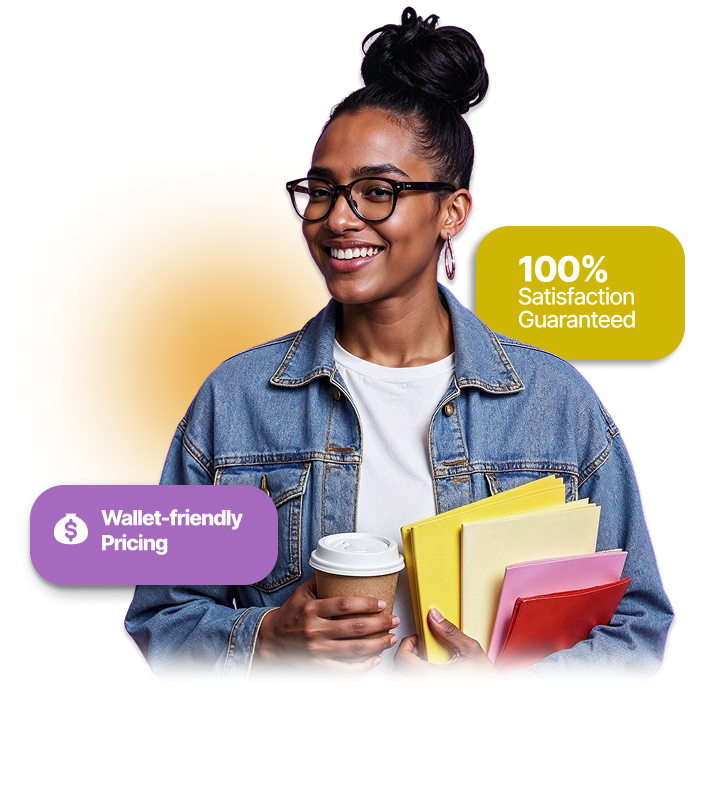
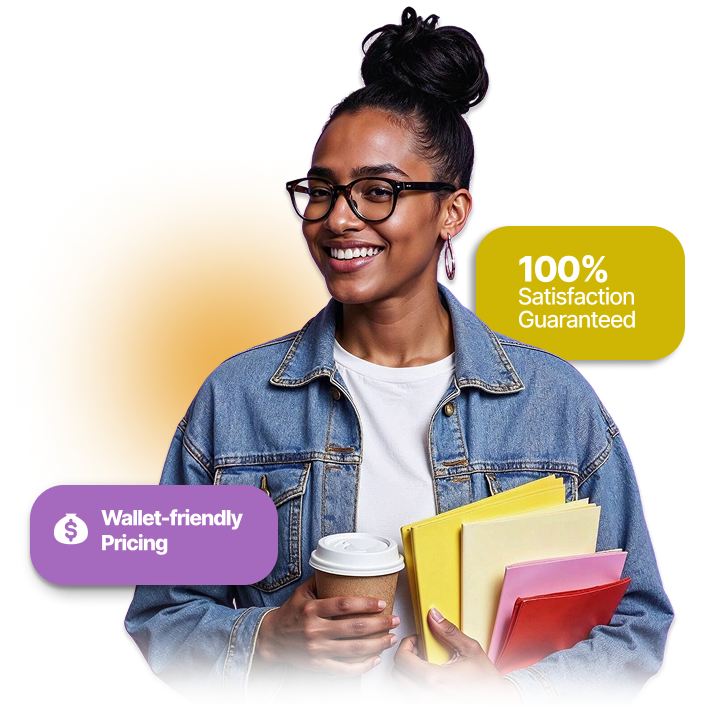
Fixed blur issue on woman image

diff --git a/src/components/Home/Home.jsx b/src/components/Home/Home.jsx
@@ -124,7 +124,7 @@ function Home() {
           initial={{ opacity: 0, scale: 0.5 }}
           whileInView={{ opacity: 1, scale: 1 }}
           transition={{ type: "spring", stiffness: 100, delay: 0.6 }}
-          className="relative top-[10px] md:absolute md:right-[-50px] right-[-20%]    md:top-[-70px] z-10"
+          className="relative top-[10px] md:absolute md:right-[-50px] right-[15px] mx-auto md:top-[-70px] z-10"
         >
           <img
             src={woman}
